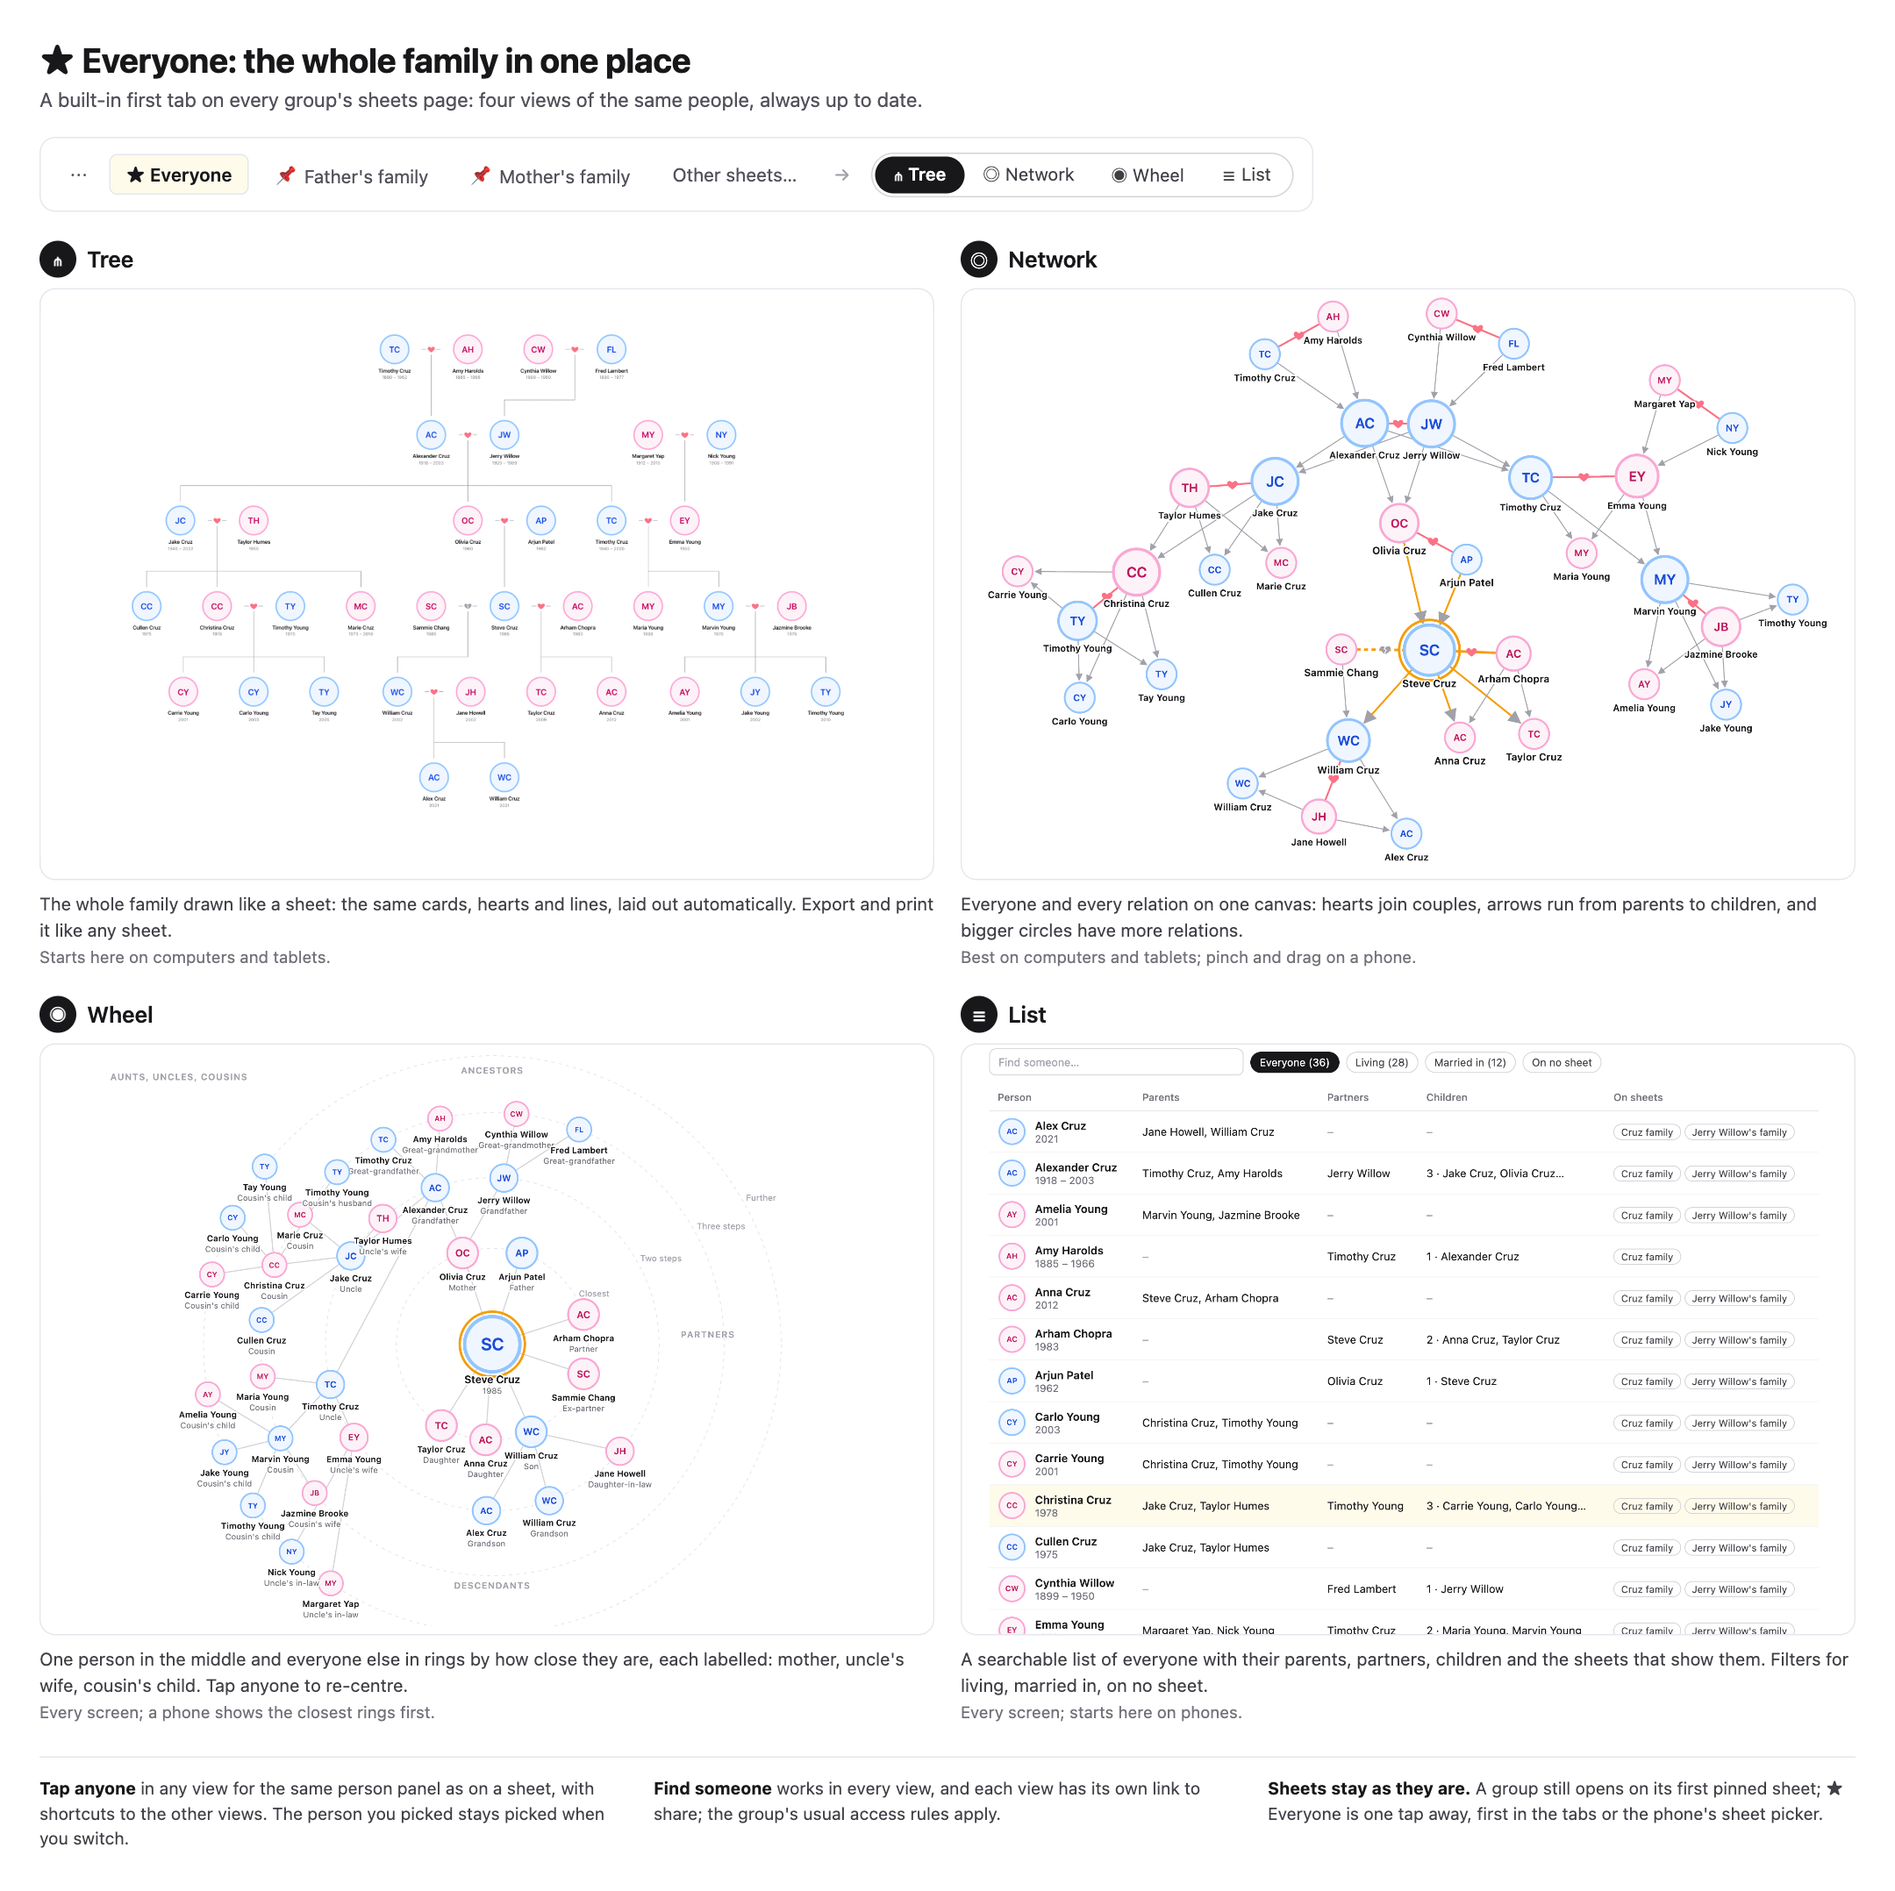
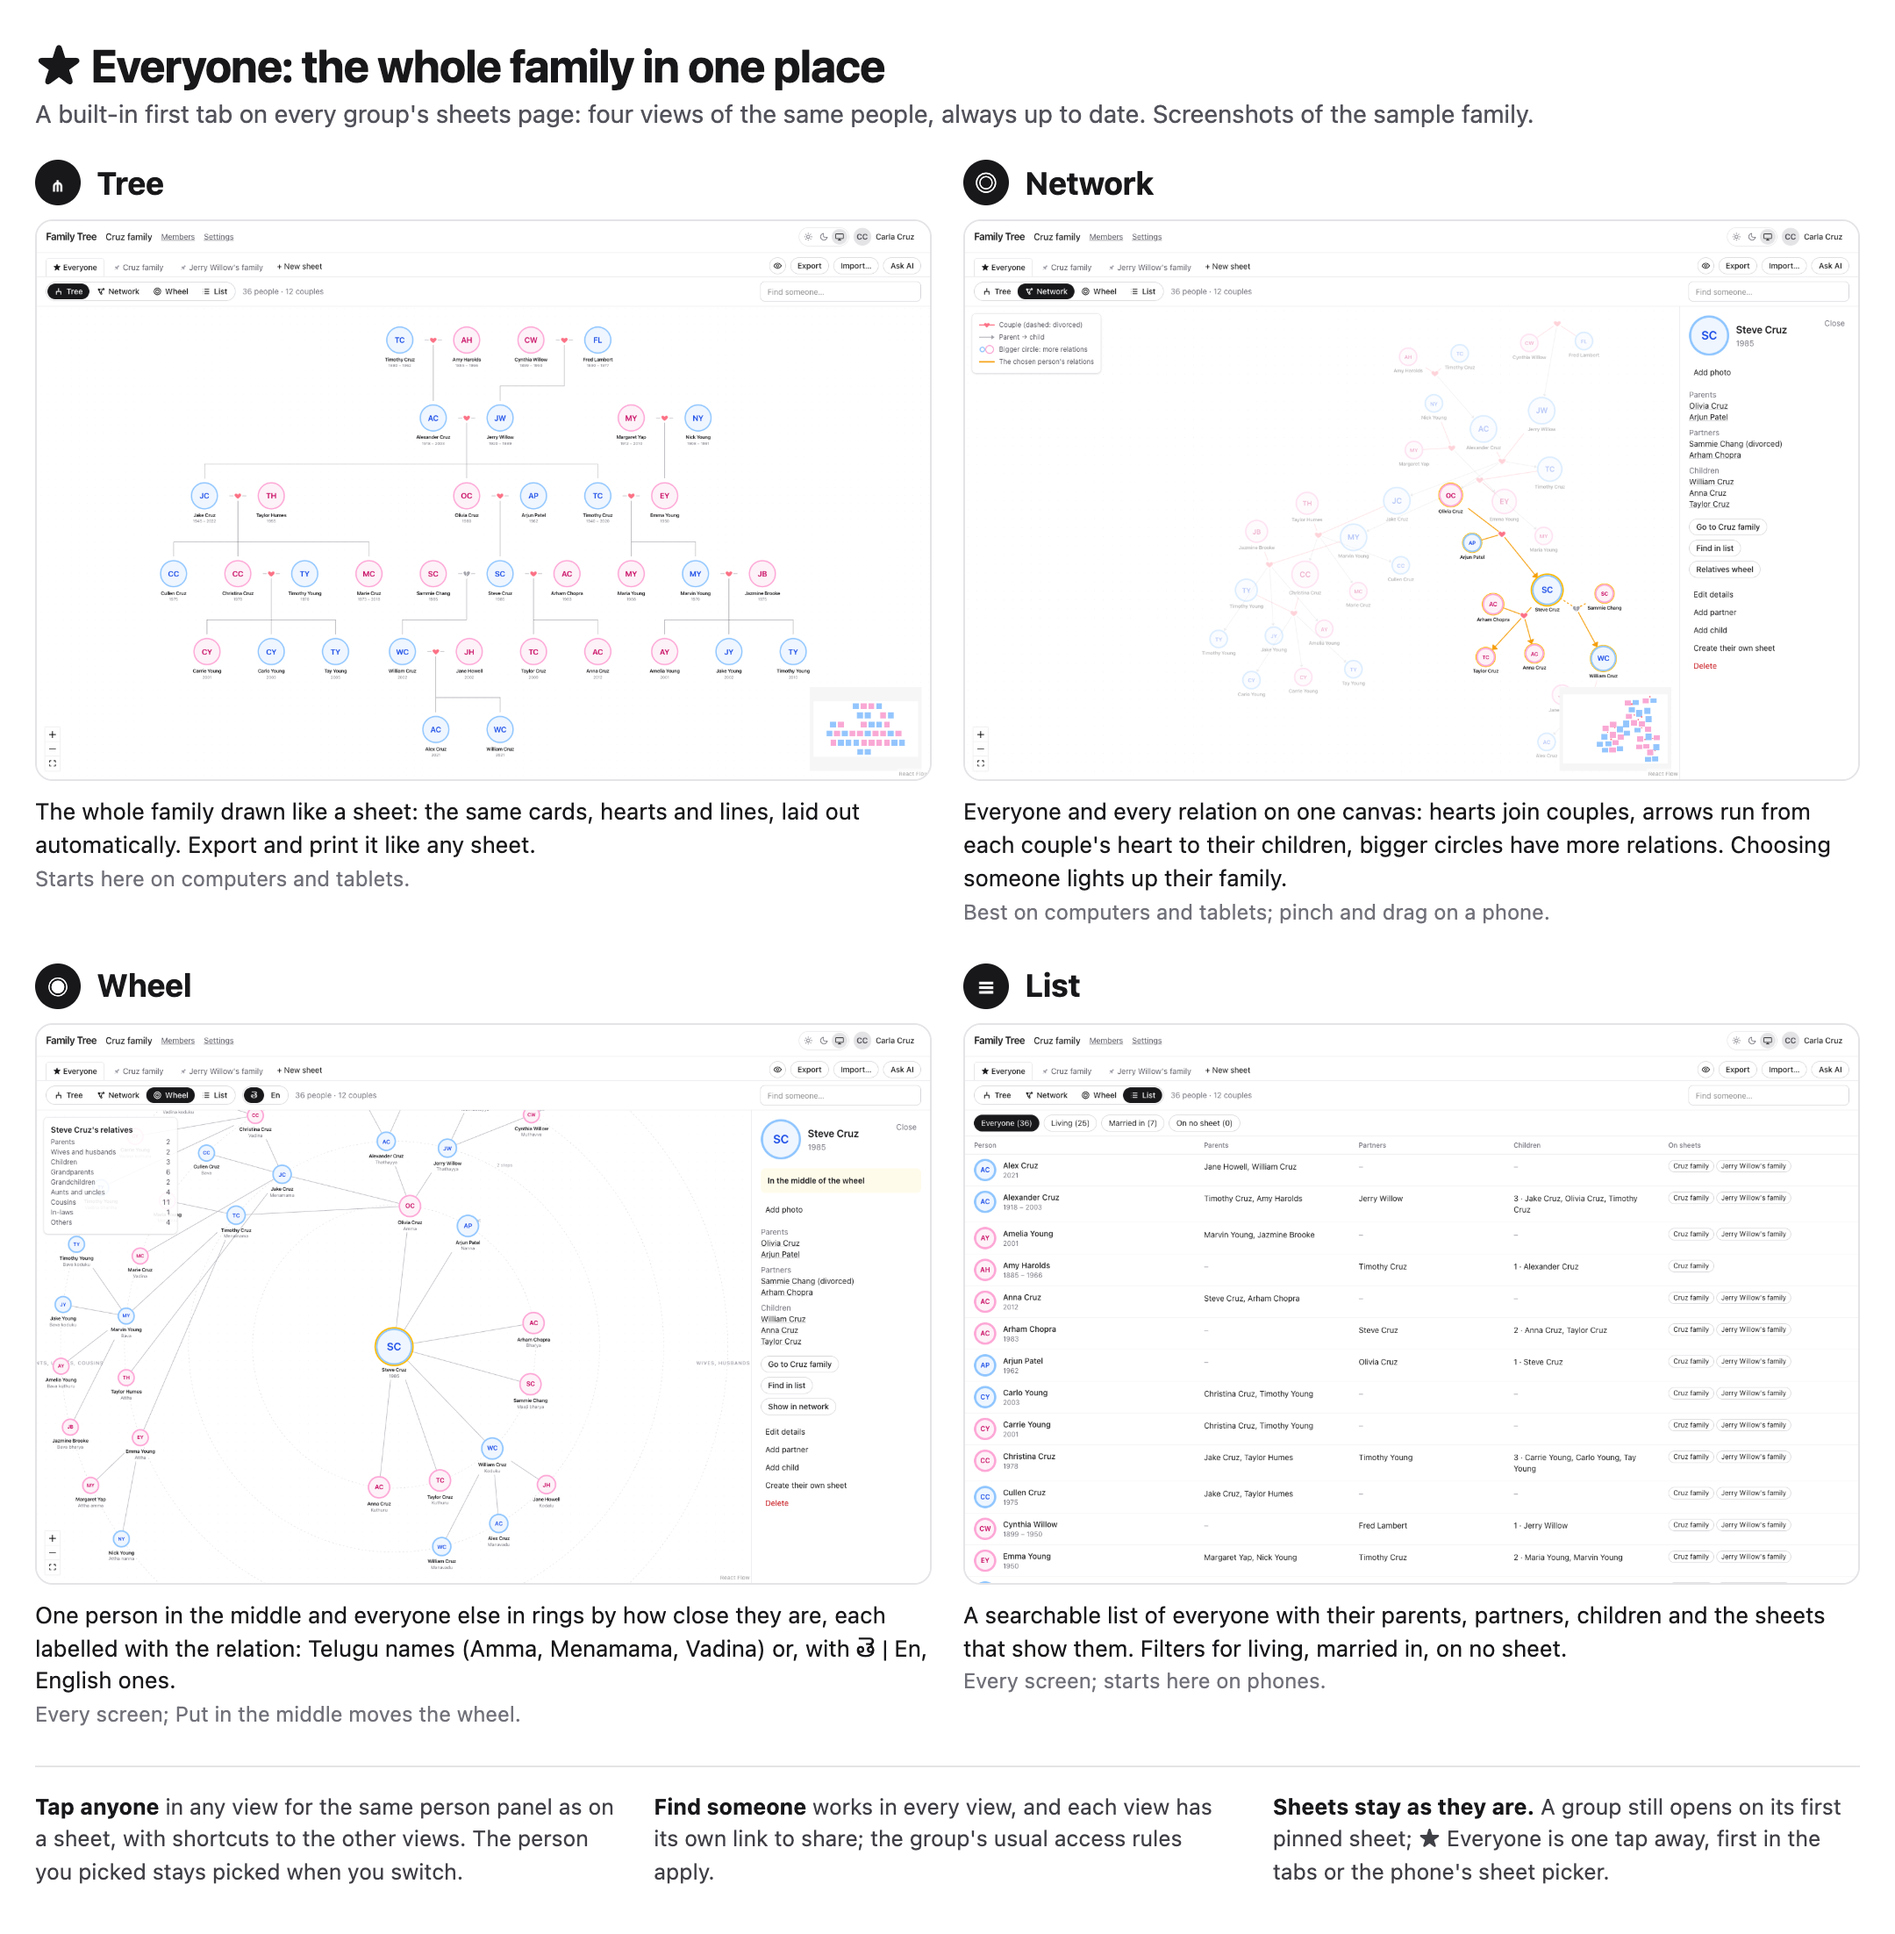
★ Everyone: real screenshots in the README
- docs/screenshots/everyone-views.png: the design mockup replaced by the
  real app, in the same layout: the title, a 2×2 grid of the e2e
  screenshots (Tree; Network with Steve Cruz's family lit up; Wheel with
  Telugu names; List) with captions for what was built, and the footer
  notes. Made with a temporary e2e spec (deleted), as CLAUDE.md now says
- README: the picture shows the views with the sample family
- BUILD_PLAN.md: a short section and Progress row; notes the flaky phone
  touch emulation (third time) as worth a fix of its own

diff --git a/.claude/CLAUDE.md b/.claude/CLAUDE.md
@@ -211,7 +211,7 @@ Scripts in `scripts/` are `.mts` (top-level await) and run with `node --import t
 - `test/planning.ts` (`applyPlan`, `sampleState`, `toGroupTree`) applies operations to an in-memory group with the real planner, so edit builders can be tested against the sample family through what the browser draws, without a database.
 - `test/fixtures/cruz-young.ts` holds the 36 people from the sample tree image: a same-sex couple, a divorce and remarriage, and in-law parents. It is the shared test data, and the §6 worked examples are its assertions. Import it as `@test/fixtures/...` (tsconfig alias). `test/fixtures/generated.ts` builds large synthetic families.
 - `src/app/dev/*` pages (e.g. `/dev/tree`, the layout playground) return 404 unless running `next dev` or built with `ENABLE_DEV_PAGES=1`. Playwright's web server sets that flag, so e2e tests can use them.
-- E2E tests save screenshots in `test-results/screenshots/`: `tree.png` (the layout playground; compare with the sample image after layout or card changes), `night-*.png`, `day-tree.png` and `day-sign-in.png` (themes; `docs/screenshots/day-tree.png`, `phone-tree.png` and `phone-panel.png`, shown in README.md, are copies of those screenshots: copy them again after visible changes to the sheets page; `docs/screenshots/everyone-views.png` is a design mockup of the planned ★ Everyone views, to be replaced by real screenshots once they're built), `chat.png` and `night-chat.png` (the assistant), `everyone-tree.png`, `everyone-list.png`, `night-everyone-list.png`, `everyone-network.png`, `everyone-network-chosen.png`, `night-everyone-network.png`, `everyone-wheel.png`, `night-everyone-wheel.png`, `phone-everyone.png`, `phone-everyone-list.png`, `phone-everyone-network.png` and `phone-everyone-wheel.png` (★ Everyone), `phone-tree.png`, `phone-panel.png`, `phone-menu.png`, `phone-chat.png`, `night-phone-tree.png` and `tablet-tree.png` (phones and tablets), `sheet-picture.png` and `sheet-picture-no-photos.png` (exported pictures) and `import-preview.png`. View the relevant ones after UI changes.
+- E2E tests save screenshots in `test-results/screenshots/`: `tree.png` (the layout playground; compare with the sample image after layout or card changes), `night-*.png`, `day-tree.png` and `day-sign-in.png` (themes; `docs/screenshots/day-tree.png`, `phone-tree.png` and `phone-panel.png`, shown in README.md, are copies of those screenshots: copy them again after visible changes to the sheets page; `docs/screenshots/everyone-views.png` lays out four of them, `everyone-tree.png`, `everyone-network-chosen.png`, `everyone-wheel.png` and `everyone-list.png`, in a 2×2 grid with captions: after visible changes to ★ Everyone, lay it out again the same way, with a temporary e2e spec that copies of those screenshots feed into `page.setContent` as data URLs, at `deviceScaleFactor: 2` and a 1080 px wide page, then delete the spec), `chat.png` and `night-chat.png` (the assistant), `everyone-tree.png`, `everyone-list.png`, `night-everyone-list.png`, `everyone-network.png`, `everyone-network-chosen.png`, `night-everyone-network.png`, `everyone-wheel.png`, `night-everyone-wheel.png`, `phone-everyone.png`, `phone-everyone-list.png`, `phone-everyone-network.png` and `phone-everyone-wheel.png` (★ Everyone), `phone-tree.png`, `phone-panel.png`, `phone-menu.png`, `phone-chat.png`, `night-phone-tree.png` and `tablet-tree.png` (phones and tablets), `sheet-picture.png` and `sheet-picture-no-photos.png` (exported pictures) and `import-preview.png`. View the relevant ones after UI changes.
 - `playwright.config.ts` has three projects: `chromium` (desktop Chrome, every spec except `responsive-*`), `phone` (Chrome's iPhone 13 emulation: 390 × 844, touch) for `e2e/responsive-phone.spec.ts`, and `tablet` (iPad, 810 × 1080) for `e2e/responsive-tablet.spec.ts`. Safari's engine can't be downloaded here. In phone tests, `tap()` only cards on the screen: Playwright can't pan React Flow, so reach others through the app (a link in a panel). Playwright counts an `sr-only` element as visible.
 - `playwright.config.ts` starts three servers: the app's production build (3100), the Cloudinary stand-in (3101) and the Messages API stand-in (3102). No e2e test reaches Cloudinary, Anthropic or Google.
 - Signed-in e2e tests use the `signIn(page, name)` fixture from `e2e/fixtures.ts` (import `test` and `expect` from there). It creates a fresh user and session in the run's database with Better Auth's `testUtils` and adds the signed cookie. The app has no test-login route, and ESLint forbids importing `testUtils` under `src/`. `playwright.config.ts` gives the web server `BETTER_AUTH_URL=http://localhost:3100`, a fresh `BETTER_AUTH_SECRET` per run (shared with the fixture through `E2E_AUTH_SECRET`), and placeholder Google credentials; tests stop at the redirect to Google.

diff --git a/docs/BUILD_PLAN.md b/docs/BUILD_PLAN.md
@@ -33,6 +33,7 @@ The app is built in small steps. Each step ends with its tests passing, a check 
 | – | ★ Everyone, part 2: the List view (owner request) | Done 2026-10-21 (unit tests: 341 passed; e2e: 68 of 69 passed, and the one phone failure passed on a rerun of the phone tests in the owner's terminal). See its section at the end |
 | – | ★ Everyone, part 3: the Network view (owner request) | Done 2026-10-21 (unit tests: 352 passed; e2e: 71 passed). See its section at the end |
 | – | ★ Everyone, part 4: the Wheel view (owner request) | Done 2026-10-21 (unit tests: 378 passed; e2e: 73 passed). See its section at the end |
+| – | ★ Everyone: real screenshots in the README (owner request) | Done 2026-10-21. See its section at the end |
 
 ## How we work
 
@@ -1146,3 +1147,12 @@ The app is built in small steps. Each step ends with its tests passing, a check 
   - **A bug found while building:** switching to the Wheel with someone selected did nothing. The new middle was component state, which rendered before the pushed address reached `useSearchParams`, and the address effect then wrote the old view back. The middle now lives only in the address, and the effect reads the live address. The two e2e tests that failed before the fix cover it.
   - **Busy sides:** on a busy side (cousins) some lines run a long way, for example from an uncle to his wife a ring further out. Readable, and the first thing to polish if wanted.
   - **E2E runs:** one run had two failures outside this part: the phone panel's 28 px Close button, the flaky touch emulation seen in part 2, and the members page's "Role changed." arriving late. The next run passed all 73.
+
+## After the final check: ★ Everyone, real screenshots in the README (owner request)
+- **Why:** with all four views built, the README's picture of ★ Everyone (`docs/screenshots/everyone-views.png`) was still the design mockup.
+- **Build:** the same layout with the real app: the title, a 2×2 grid of the e2e screenshots, and the footer notes.
+  - The grid holds `everyone-tree.png`, `everyone-network-chosen.png` (Steve Cruz's family lit up), `everyone-wheel.png` (Telugu names) and `everyone-list.png`.
+  - The captions say what was built: arrows from the couple's heart, Telugu or English names, Put in the middle.
+  - The mockup's drawn tab row is gone; the screenshots show the real one.
+  - It's made by a temporary e2e spec that lays copies of the screenshots out in a page and saves a 2160 px wide picture (the method is in CLAUDE.md); the spec is deleted afterwards.
+- **Notes (2026-10-21):** the e2e run that made it had one failure, "the main controls are big enough to tap" (the phone's sheet picker at 40 px instead of 44). That's the third time the flaky touch emulation has struck one phone test, which then saw a mouse instead of a touch screen. It's worth a look of its own, for example a check that the page sees a touch screen before measuring.

diff --git a/README.md b/README.md
@@ -76,7 +76,7 @@ A built-in first tab on every group's sheets page that shows every person and ho
 
 - ★ Everyone comes first in the tab row (first in the sheet picker on phones), but a group still opens on its first pinned sheet, or its first sheet when none is pinned.
 - Tapping anyone, in any view, opens the same person panel as on a sheet (editing for Maintain and up), with shortcuts to the other views. The person you picked stays picked when you switch, and each view has its own link to share.
-- **All four views are built.** Find someone selects a person and moves to them (in the List it narrows the rows; in the Wheel it puts them in the middle). The List filters Everyone, Living, Married in and On no sheet. In the Network, choosing someone lights up their parents, partners and children. The Wheel labels everyone with their relation in Telugu relationship names written in English letters (Amma, Babai, Menamama, Bava…) or, with the "తె | En" toggle, in English. A person's panel has "Find in list", "Show in network" and "Relatives wheel", on any sheet too. The picture above is the design mockup, drawn from the sample family. The agreed details are in [docs/FEATURES.md](docs/FEATURES.md#everyone-agreed-2026-10-20-all-four-views-built-tree-list-network-wheel).
+- **All four views are built.** Find someone selects a person and moves to them (in the List it narrows the rows; in the Wheel it puts them in the middle). The List filters Everyone, Living, Married in and On no sheet. In the Network, choosing someone lights up their parents, partners and children. The Wheel labels everyone with their relation in Telugu relationship names written in English letters (Amma, Babai, Menamama, Bava…) or, with the "తె | En" toggle, in English. A person's panel has "Find in list", "Show in network" and "Relatives wheel", on any sheet too. The picture above shows them with the sample family. The agreed details are in [docs/FEATURES.md](docs/FEATURES.md#everyone-agreed-2026-10-20-all-four-views-built-tree-list-network-wheel).
 
 ## Tech stack
 
